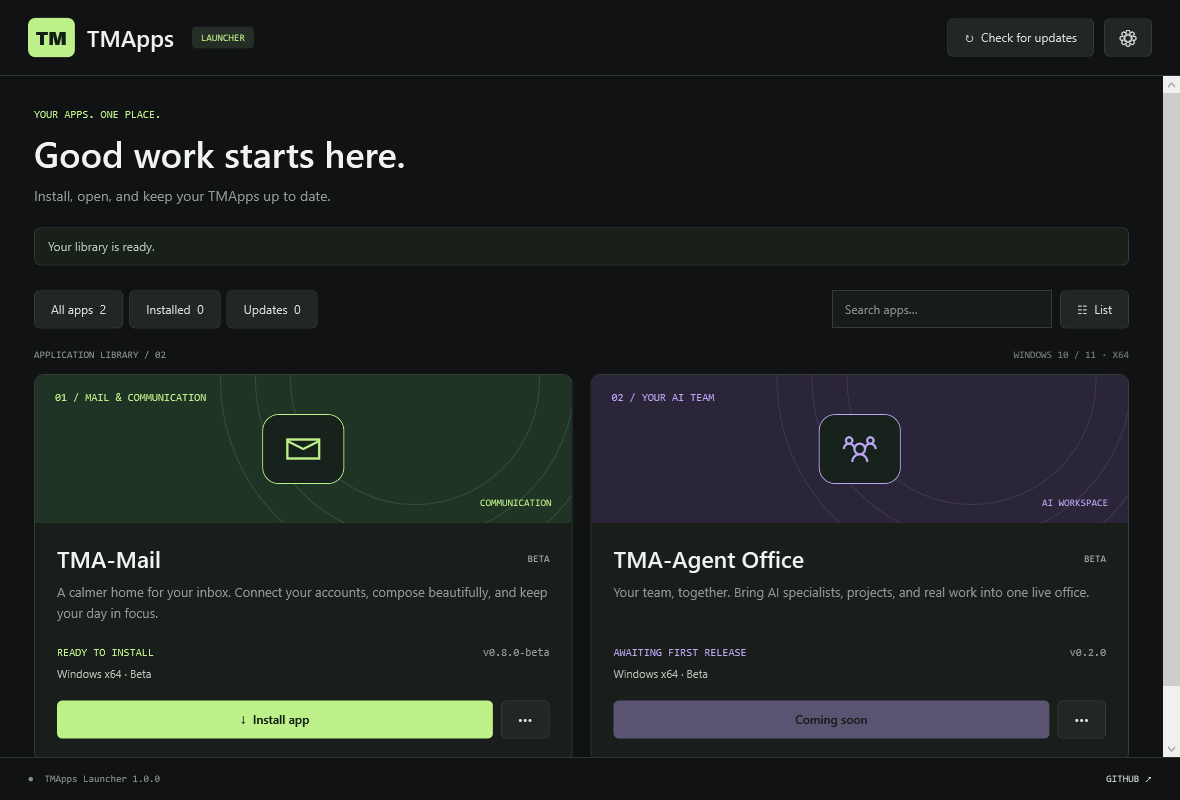
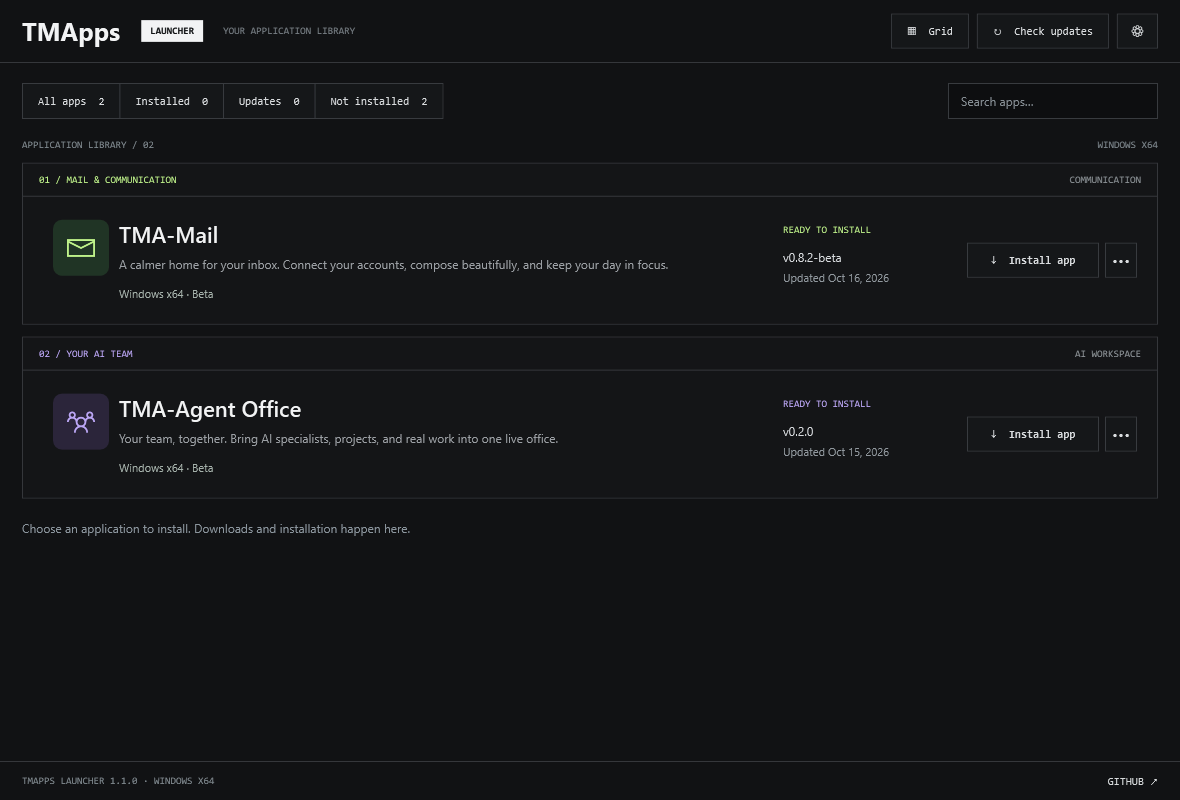
Ship standalone launcher EXE with compact app list and update dates

diff --git a/src/MainWindow.xaml b/src/MainWindow.xaml
@@ -1,70 +1,58 @@
 <Window xmlns="http://schemas.microsoft.com/winfx/2006/xaml/presentation" xmlns:x="http://schemas.microsoft.com/winfx/2006/xaml"
- Title="TMApps Launcher" Width="1180" Height="840" MinWidth="880" MinHeight="700" Background="#101213" Foreground="#F1F3F1" FontFamily="Segoe UI" WindowStartupLocation="CenterScreen">
+ Title="TMApps Launcher" Width="1120" Height="720" MinWidth="900" MinHeight="580" Background="#111214" Foreground="#F2F3F4" FontFamily="Segoe UI" WindowStartupLocation="CenterScreen">
  <Window.Resources>
-  <SolidColorBrush x:Key="Muted" Color="#919A96"/>
   <Style TargetType="Button">
-   <Setter Property="Background" Value="#202725"/><Setter Property="Foreground" Value="#D9DFDB"/><Setter Property="BorderBrush" Value="#343D38"/><Setter Property="BorderThickness" Value="1"/><Setter Property="Padding" Value="16,10"/><Setter Property="FontSize" Value="12"/><Setter Property="Cursor" Value="Hand"/>
-   <Setter Property="Template"><Setter.Value><ControlTemplate TargetType="Button"><Border x:Name="Chrome" Background="{TemplateBinding Background}" BorderBrush="{TemplateBinding BorderBrush}" BorderThickness="{TemplateBinding BorderThickness}" CornerRadius="5" Padding="{TemplateBinding Padding}"><ContentPresenter HorizontalAlignment="Center" VerticalAlignment="Center"/></Border><ControlTemplate.Triggers><Trigger Property="IsMouseOver" Value="True"><Setter TargetName="Chrome" Property="Opacity" Value="0.78"/></Trigger><Trigger Property="IsEnabled" Value="False"><Setter TargetName="Chrome" Property="Opacity" Value="0.4"/></Trigger><Trigger Property="IsKeyboardFocused" Value="True"><Setter TargetName="Chrome" Property="BorderBrush" Value="#BEF18A"/></Trigger></ControlTemplate.Triggers></ControlTemplate></Setter.Value></Setter>
+   <Setter Property="Background" Value="#151719"/><Setter Property="Foreground" Value="#D9DCDE"/><Setter Property="BorderBrush" Value="#383B3F"/><Setter Property="BorderThickness" Value="1"/><Setter Property="Padding" Value="15,10"/><Setter Property="FontSize" Value="11"/><Setter Property="FontFamily" Value="Consolas"/><Setter Property="Cursor" Value="Hand"/>
+   <Setter Property="Template"><Setter.Value><ControlTemplate TargetType="Button"><Border x:Name="Chrome" Background="{TemplateBinding Background}" BorderBrush="{TemplateBinding BorderBrush}" BorderThickness="{TemplateBinding BorderThickness}" Padding="{TemplateBinding Padding}"><ContentPresenter HorizontalAlignment="Center" VerticalAlignment="Center"/></Border><ControlTemplate.Triggers><Trigger Property="IsMouseOver" Value="True"><Setter TargetName="Chrome" Property="BorderBrush" Value="#B9D8CE"/><Setter TargetName="Chrome" Property="Opacity" Value="0.8"/></Trigger><Trigger Property="IsEnabled" Value="False"><Setter TargetName="Chrome" Property="Opacity" Value="0.4"/></Trigger><Trigger Property="IsKeyboardFocused" Value="True"><Setter TargetName="Chrome" Property="BorderBrush" Value="#BEF18A"/></Trigger></ControlTemplate.Triggers></ControlTemplate></Setter.Value></Setter>
   </Style>
-  <Style TargetType="TextBox"><Setter Property="Background" Value="#171B19"/><Setter Property="Foreground" Value="#E7EDE8"/><Setter Property="BorderBrush" Value="#343D38"/><Setter Property="Padding" Value="12,10"/><Setter Property="CaretBrush" Value="#BEF18A"/></Style>
-  <Style TargetType="ComboBox"><Setter Property="Padding" Value="9,8"/><Setter Property="MinWidth" Value="145"/></Style>
-  <DataTemplate x:Key="AppCard">
-   <Border Margin="0,0,18,18" Background="#191E1B" BorderBrush="#343C36" BorderThickness="1" CornerRadius="9">
+  <Style TargetType="TextBox"><Setter Property="Background" Value="#0D0E10"/><Setter Property="Foreground" Value="#E7E9EB"/><Setter Property="BorderBrush" Value="#383B3F"/><Setter Property="Padding" Value="12,9"/><Setter Property="CaretBrush" Value="#BEF18A"/></Style>
+  <DataTemplate x:Key="AppList">
+   <Border BorderBrush="#35373B" BorderThickness="1" Margin="0,0,0,12" Background="#141517">
     <Grid>
-     <Grid.RowDefinitions><RowDefinition Height="148"/><RowDefinition Height="*"/></Grid.RowDefinitions>
-     <Border Background="{Binding PreviewBackground}" CornerRadius="8,8,0,0" ClipToBounds="True">
-      <Grid>
-       <Canvas Opacity="0.14" IsHitTestVisible="False"><Ellipse Width="250" Height="250" Stroke="{Binding Accent}" StrokeThickness="1" Canvas.Left="255" Canvas.Top="-120"/><Ellipse Width="320" Height="320" Stroke="{Binding Accent}" StrokeThickness="1" Canvas.Left="220" Canvas.Top="-155"/><Ellipse Width="390" Height="390" Stroke="{Binding Accent}" StrokeThickness="1" Canvas.Left="185" Canvas.Top="-190"/></Canvas>
-       <TextBlock Text="{Binding Number}" Foreground="{Binding Accent}" FontFamily="Consolas" FontSize="11" HorizontalAlignment="Left" VerticalAlignment="Top" Margin="20,16"/>
-       <Border HorizontalAlignment="Center" VerticalAlignment="Center" Width="82" Height="70" CornerRadius="16" BorderThickness="1" BorderBrush="{Binding Accent}" Background="#18221C"><TextBlock Text="{Binding Glyph}" FontFamily="Segoe MDL2 Assets" FontSize="34" Foreground="{Binding Accent}" HorizontalAlignment="Center" VerticalAlignment="Center"/></Border>
-       <TextBlock Text="{Binding Category}" Foreground="{Binding Accent}" FontFamily="Consolas" FontSize="10" HorizontalAlignment="Right" VerticalAlignment="Bottom" Margin="20,15"/>
-      </Grid>
-     </Border>
-     <Grid Grid.Row="1" Margin="22,20,22,22">
-      <Grid.RowDefinitions><RowDefinition Height="Auto"/><RowDefinition Height="Auto"/><RowDefinition Height="Auto"/><RowDefinition Height="Auto"/><RowDefinition Height="Auto"/></Grid.RowDefinitions>
-      <DockPanel><TextBlock Text="BETA" DockPanel.Dock="Right" FontFamily="Consolas" Foreground="#AAB2AC" FontSize="10" VerticalAlignment="Center"/><TextBlock Text="{Binding Name}" FontSize="23" FontWeight="SemiBold"/></DockPanel>
-      <TextBlock Grid.Row="1" Text="{Binding Description}" Foreground="{StaticResource Muted}" TextWrapping="Wrap" FontSize="13" LineHeight="21" Margin="0,9,0,0" MinHeight="46"/>
-      <DockPanel Grid.Row="2" Margin="0,17,0,0"><TextBlock Text="{Binding VersionLabel}" DockPanel.Dock="Right" Foreground="#919A96" FontFamily="Consolas" FontSize="11"/><TextBlock Text="{Binding Status}" Foreground="{Binding Accent}" FontSize="11" FontFamily="Consolas" TextWrapping="Wrap"/></DockPanel>
-      <TextBlock Grid.Row="3" Text="{Binding Detail}" ToolTip="{Binding Detail}" TextTrimming="CharacterEllipsis" Foreground="#B8C1BA" FontSize="11" Margin="0,8,0,0" MinHeight="16"/>
-      <Grid Grid.Row="4" Margin="0,18,0,0"><Grid.ColumnDefinitions><ColumnDefinition/><ColumnDefinition Width="Auto"/><ColumnDefinition Width="Auto"/></Grid.ColumnDefinitions>
-       <Button Content="{Binding Action}" IsEnabled="{Binding CanAct}" Tag="{Binding Id}" Click="AppAction" Background="{Binding Accent}" Foreground="#101A12" BorderThickness="0" FontWeight="SemiBold" Padding="16,11"/>
-       <Button Grid.Column="1" Content="Cancel" Tag="{Binding Id}" Click="CancelInstall" Visibility="{Binding CancelVisibility}" Margin="8,0,0,0"/>
-       <Button Grid.Column="2" Content="•••" Tag="{Binding Id}" Click="AppMenu" ToolTip="Application options" Margin="8,0,0,0" AutomationProperties.Name="Application options"/>
-      </Grid>
+     <Grid.RowDefinitions><RowDefinition Height="33"/><RowDefinition Height="Auto"/></Grid.RowDefinitions>
+     <Border BorderBrush="#35373B" BorderThickness="0,0,0,1" Padding="16,0"><DockPanel><TextBlock Text="{Binding Number}" Foreground="{Binding Accent}" FontFamily="Consolas" FontSize="10" VerticalAlignment="Center"/><TextBlock Text="{Binding Category}" Foreground="#8C9296" FontFamily="Consolas" FontSize="10" VerticalAlignment="Center" HorizontalAlignment="Right"/></DockPanel></Border>
+     <Grid Grid.Row="1" Margin="20,23">
+      <Grid.ColumnDefinitions><ColumnDefinition Width="76"/><ColumnDefinition Width="*"/><ColumnDefinition Width="184"/><ColumnDefinition Width="170"/></Grid.ColumnDefinitions>
+      <Border Width="56" Height="56" Background="{Binding PreviewBackground}" CornerRadius="9" VerticalAlignment="Top"><TextBlock Text="{Binding Glyph}" FontFamily="Segoe MDL2 Assets" FontSize="28" Foreground="{Binding Accent}" HorizontalAlignment="Center" VerticalAlignment="Center"/></Border>
+      <StackPanel Grid.Column="1" Margin="0,0,25,0"><TextBlock Text="{Binding Name}" FontSize="22" FontWeight="SemiBold"/><TextBlock Text="{Binding Description}" Foreground="#9B9FA4" FontSize="12" TextWrapping="Wrap" LineHeight="19" Margin="0,7,0,0"/><TextBlock Text="{Binding Detail}" Foreground="#A6B2AC" FontSize="11" TextWrapping="Wrap" Margin="0,11,0,0"/></StackPanel>
+      <StackPanel Grid.Column="2" Margin="0,4,12,0"><TextBlock Text="{Binding Status}" Foreground="{Binding Accent}" FontSize="10" FontFamily="Consolas" TextWrapping="Wrap"/><TextBlock Text="{Binding VersionLabel}" Foreground="#D7DADD" FontSize="12" Margin="0,14,0,0"/><TextBlock Text="{Binding UpdatedLabel, StringFormat=Updated {0}}" Foreground="#90979D" FontSize="11" Margin="0,5,0,0"/></StackPanel>
+      <StackPanel Grid.Column="3" VerticalAlignment="Center"><Grid><Grid.ColumnDefinitions><ColumnDefinition/><ColumnDefinition Width="38"/></Grid.ColumnDefinitions><Button Content="{Binding Action}" IsEnabled="{Binding CanAct}" Tag="{Binding Id}" Click="AppAction" FontWeight="Bold"/><Button Grid.Column="1" Content="•••" Tag="{Binding Id}" Click="AppMenu" ToolTip="Application options" Margin="6,0,0,0" Padding="0,10" AutomationProperties.Name="Application options"/></Grid><Button Content="Cancel" Tag="{Binding Id}" Click="CancelInstall" Visibility="{Binding CancelVisibility}" Margin="0,6,0,0"/></StackPanel>
      </Grid>
     </Grid>
    </Border>
   </DataTemplate>
+  <DataTemplate x:Key="AppCard">
+   <Border Margin="0,0,12,12" BorderBrush="#35373B" BorderThickness="1" Background="#141517">
+    <StackPanel>
+     <Border BorderBrush="#35373B" BorderThickness="0,0,0,1" Padding="18,10"><TextBlock Text="{Binding Number}" Foreground="{Binding Accent}" FontFamily="Consolas" FontSize="10"/></Border>
+     <StackPanel Margin="20,22">
+      <DockPanel><Border Width="54" Height="54" Background="{Binding PreviewBackground}" CornerRadius="8" Margin="0,0,14,0"><TextBlock Text="{Binding Glyph}" Foreground="{Binding Accent}" FontFamily="Segoe MDL2 Assets" FontSize="27" HorizontalAlignment="Center" VerticalAlignment="Center"/></Border><StackPanel VerticalAlignment="Center"><TextBlock Text="{Binding Name}" FontSize="23" FontWeight="SemiBold"/><TextBlock Text="{Binding Category}" Foreground="#90979D" FontSize="11" Margin="0,4,0,0"/></StackPanel></DockPanel>
+      <TextBlock Text="{Binding Description}" TextWrapping="Wrap" Foreground="#9B9FA4" FontSize="12" LineHeight="20" Margin="0,17,0,0" MinHeight="44"/>
+      <TextBlock Text="{Binding Status}" Foreground="{Binding Accent}" FontFamily="Consolas" FontSize="10" Margin="0,18,0,0"/>
+      <StackPanel Orientation="Horizontal" Margin="0,12,0,0"><TextBlock Text="{Binding VersionLabel}" FontSize="12" Foreground="#A8ADB2"/><TextBlock Text=" · " Foreground="#A8ADB2"/><TextBlock Text="{Binding UpdatedLabel}" FontSize="12" Foreground="#A8ADB2"/></StackPanel>
+      <TextBlock Text="{Binding Detail}" TextTrimming="CharacterEllipsis" ToolTip="{Binding Detail}" Foreground="#9BA8A1" FontSize="11" Margin="0,10,0,0" MinHeight="16"/>
+      <Grid Margin="0,20,0,0"><Grid.ColumnDefinitions><ColumnDefinition/><ColumnDefinition Width="Auto"/><ColumnDefinition Width="38"/></Grid.ColumnDefinitions><Button Content="{Binding Action}" IsEnabled="{Binding CanAct}" Tag="{Binding Id}" Click="AppAction" FontWeight="Bold"/><Button Grid.Column="1" Content="Cancel" Tag="{Binding Id}" Click="CancelInstall" Visibility="{Binding CancelVisibility}" Margin="6,0,0,0"/><Button Grid.Column="2" Content="•••" Tag="{Binding Id}" Click="AppMenu" Margin="6,0,0,0" Padding="0,10" ToolTip="Application options"/></Grid>
+     </StackPanel>
+    </StackPanel>
+   </Border>
+  </DataTemplate>
  </Window.Resources>
- <Grid Background="#101213">
-  <Grid.RowDefinitions><RowDefinition Height="76"/><RowDefinition Height="*"/><RowDefinition Height="43"/></Grid.RowDefinitions>
-  <Border BorderBrush="#2D3530" BorderThickness="0,0,0,1" Padding="28,0">
-   <DockPanel LastChildFill="False">
-    <StackPanel Orientation="Horizontal" DockPanel.Dock="Left" VerticalAlignment="Center"><Border Background="#BEF18A" CornerRadius="7" Padding="8,7"><TextBlock Text="TM" Foreground="#142015" FontWeight="ExtraBold" FontSize="19"/></Border><TextBlock Text="TMApps" FontSize="23" FontWeight="SemiBold" Margin="12,0,0,0" VerticalAlignment="Center"/><Border Background="#252E26" CornerRadius="4" Padding="9,5" Margin="18,0,0,0" VerticalAlignment="Center"><TextBlock Text="LAUNCHER" Foreground="#BEF18A" FontSize="10" FontFamily="Consolas"/></Border></StackPanel>
-    <StackPanel Orientation="Horizontal" DockPanel.Dock="Right" VerticalAlignment="Center"><Button x:Name="RefreshButton" Content="↻  Check for updates" Click="RefreshClick" Margin="0,0,10,0"/><Button Content="⚙" Click="SettingsClick" ToolTip="Launcher settings" AutomationProperties.Name="Launcher settings" FontSize="16" Padding="12,7"/></StackPanel>
-   </DockPanel>
-  </Border>
-  <ScrollViewer Grid.Row="1" VerticalScrollBarVisibility="Auto" HorizontalScrollBarVisibility="Disabled">
-   <StackPanel Margin="34,32,16,20">
-    <TextBlock Text="YOUR APPS. ONE PLACE." Foreground="#BEF18A" FontFamily="Consolas" FontSize="11"/>
-    <TextBlock Text="Good work starts here." FontSize="36" FontWeight="SemiBold" Margin="0,8,0,0"/>
-    <TextBlock Text="Install, open, and keep your TMApps up to date." Foreground="#919A96" FontSize="14" Margin="0,9,0,0"/>
-    <Border Background="#182019" BorderBrush="#303F30" BorderThickness="1" CornerRadius="6" Padding="13,10" Margin="0,23,18,0"><TextBlock x:Name="Notice" Text="Your library is ready." Foreground="#B5C8B4" TextWrapping="Wrap" FontSize="12"/></Border>
-    <Grid Margin="0,25,18,20">
-     <Grid.ColumnDefinitions><ColumnDefinition Width="Auto"/><ColumnDefinition/><ColumnDefinition Width="220"/><ColumnDefinition Width="Auto"/></Grid.ColumnDefinitions>
-     <StackPanel Orientation="Horizontal"><Button x:Name="AllFilter" Content="All apps  2" Tag="all" Click="FilterClick"/><Button x:Name="InstalledFilter" Content="Installed  0" Tag="installed" Click="FilterClick" Margin="6,0,0,0"/><Button x:Name="UpdatesFilter" Content="Updates  0" Tag="updates" Click="FilterClick" Margin="6,0,0,0"/></StackPanel>
-     <Grid Grid.Column="2">
-      <TextBox x:Name="Search" TextChanged="SearchChanged" ToolTip="Search applications" AutomationProperties.Name="Search applications"/>
-      <TextBlock Text="Search apps…" Foreground="#879389" Margin="13,0" VerticalAlignment="Center" IsHitTestVisible="False"><TextBlock.Style><Style TargetType="TextBlock"><Setter Property="Visibility" Value="Collapsed"/><Style.Triggers><DataTrigger Binding="{Binding Text, ElementName=Search}" Value=""><Setter Property="Visibility" Value="Visible"/></DataTrigger></Style.Triggers></Style></TextBlock.Style></TextBlock>
-     </Grid>
-     <Button Grid.Column="3" x:Name="ViewButton" Content="☷  List" Click="ViewClick" Margin="8,0,0,0" ToolTip="Toggle grid and list"/>
-    </Grid>
-    <DockPanel Margin="0,0,18,14"><TextBlock x:Name="LibraryLabel" Text="APPLICATION LIBRARY / 02" FontFamily="Consolas" FontSize="10" Foreground="#879389"/><TextBlock Text="WINDOWS 10 / 11 · X64" Foreground="#737E76" FontFamily="Consolas" FontSize="10" HorizontalAlignment="Right"/></DockPanel>
-    <ItemsControl x:Name="Cards" ItemTemplate="{StaticResource AppCard}"><ItemsControl.ItemsPanel><ItemsPanelTemplate><UniformGrid Columns="2"/></ItemsPanelTemplate></ItemsControl.ItemsPanel></ItemsControl>
-    <TextBlock x:Name="Empty" Text="No apps match this view. Try All apps or a different search." Visibility="Collapsed" Foreground="#B5C8B4" Margin="0,22"/>
-    <TextBlock Text="A growing collection. More tools, same home." FontSize="12" Foreground="#6E7B71" Margin="0,3,0,0"/>
-   </StackPanel>
-  </ScrollViewer>
-  <Border Grid.Row="2" BorderBrush="#2D3530" BorderThickness="0,1,0,0" Padding="28,0"><DockPanel><TextBlock x:Name="Footer" Text="●  TMApps Launcher 1.0.0" Foreground="#879389" FontFamily="Consolas" FontSize="10" VerticalAlignment="Center"/><Button Content="GITHUB ↗" Click="GitHubClick" DockPanel.Dock="Right" HorizontalAlignment="Right" Background="Transparent" BorderThickness="0" FontFamily="Consolas" FontSize="10" Padding="0,8"/></DockPanel></Border>
+ <Grid Background="#111214">
+  <Grid.RowDefinitions><RowDefinition Height="63"/><RowDefinition Height="Auto"/><RowDefinition Height="*"/><RowDefinition Height="39"/></Grid.RowDefinitions>
+  <Border BorderBrush="#35373B" BorderThickness="0,0,0,1" Padding="22,0"><DockPanel LastChildFill="False">
+   <StackPanel DockPanel.Dock="Left" Orientation="Horizontal" VerticalAlignment="Center"><TextBlock Text="TMApps" FontSize="25" FontWeight="Bold"/><Border Background="#F2F3F4" Margin="21,0,0,0" VerticalAlignment="Center" Padding="9,5"><TextBlock Text="LAUNCHER" Foreground="#101214" FontFamily="Consolas" FontWeight="Bold" FontSize="10"/></Border><TextBlock Text="YOUR APPLICATION LIBRARY" Foreground="#777E84" FontFamily="Consolas" FontSize="10" VerticalAlignment="Center" Margin="20,0,0,0"/></StackPanel>
+   <StackPanel DockPanel.Dock="Right" Orientation="Horizontal" VerticalAlignment="Center"><Button x:Name="ViewButton" Content="▦  Grid" Click="ViewClick" Margin="0,0,8,0"/><Button x:Name="RefreshButton" Content="↻  Check updates" Click="RefreshClick" Margin="0,0,8,0"/><Button Content="⚙" Click="SettingsClick" ToolTip="Launcher settings" AutomationProperties.Name="Launcher settings" Padding="12,9"/></StackPanel>
+  </DockPanel></Border>
+  <Grid Grid.Row="1" Margin="22,20,22,20"><Grid.ColumnDefinitions><ColumnDefinition Width="Auto"/><ColumnDefinition/><ColumnDefinition Width="210"/></Grid.ColumnDefinitions>
+   <StackPanel Orientation="Horizontal"><Button x:Name="AllFilter" Content="All apps  2" Tag="all" Click="FilterClick"/><Button x:Name="InstalledFilter" Content="Installed  0" Tag="installed" Click="FilterClick" Margin="-1,0,0,0"/><Button x:Name="UpdatesFilter" Content="Updates  0" Tag="updates" Click="FilterClick" Margin="-1,0,0,0"/><Button x:Name="NotInstalledFilter" Content="Not installed  2" Tag="notinstalled" Click="FilterClick" Margin="-1,0,0,0"/></StackPanel>
+   <Grid Grid.Column="2"><TextBox x:Name="Search" TextChanged="SearchChanged" ToolTip="Search applications" AutomationProperties.Name="Search applications"/><TextBlock Text="Search apps…" Foreground="#858D93" VerticalAlignment="Center" Margin="13,0" IsHitTestVisible="False"><TextBlock.Style><Style TargetType="TextBlock"><Setter Property="Visibility" Value="Collapsed"/><Style.Triggers><DataTrigger Binding="{Binding Text, ElementName=Search}" Value=""><Setter Property="Visibility" Value="Visible"/></DataTrigger></Style.Triggers></Style></TextBlock.Style></TextBlock></Grid>
+  </Grid>
+  <ScrollViewer Grid.Row="2" VerticalScrollBarVisibility="Auto" HorizontalScrollBarVisibility="Disabled"><StackPanel Margin="22,0,22,20">
+   <DockPanel Margin="0,0,0,12"><TextBlock x:Name="LibraryLabel" Text="APPLICATION LIBRARY / 02" Foreground="#7D868C" FontFamily="Consolas" FontSize="10"/><TextBlock Text="WINDOWS X64" Foreground="#7D868C" FontFamily="Consolas" FontSize="10" HorizontalAlignment="Right"/></DockPanel>
+   <ItemsControl x:Name="Cards" ItemTemplate="{StaticResource AppList}"><ItemsControl.ItemsPanel><ItemsPanelTemplate><UniformGrid Columns="1"/></ItemsPanelTemplate></ItemsControl.ItemsPanel></ItemsControl>
+   <TextBlock x:Name="Empty" Text="No applications match this view." Foreground="#A0A8AF" Visibility="Collapsed" Margin="0,25"/>
+   <TextBlock x:Name="Notice" Text="Choose an application to install. Downloads and installation happen here." Foreground="#8B959D" TextWrapping="Wrap" FontSize="12" Margin="0,10,0,0"/>
+  </StackPanel></ScrollViewer>
+  <Border Grid.Row="3" BorderBrush="#35373B" BorderThickness="0,1,0,0" Padding="22,0"><DockPanel><TextBlock x:Name="Footer" Text="TMAPPS LAUNCHER 1.1.0 · WINDOWS X64" Foreground="#7E878D" FontFamily="Consolas" FontSize="10" VerticalAlignment="Center"/><Button Content="GITHUB ↗" Click="GitHubClick" HorizontalAlignment="Right" Background="Transparent" BorderThickness="0" Padding="0,7"/></DockPanel></Border>
  </Grid>
 </Window>

diff --git a/src/App.cs b/src/App.cs
@@ -10,6 +10,10 @@ using System.Windows.Controls;
 using System.Windows.Markup;
 using System.Windows.Media;
 
+[assembly: System.Reflection.AssemblyVersion("1.1.0.0")]
+[assembly: System.Reflection.AssemblyFileVersion("1.1.0.0")]
+[assembly: System.Reflection.AssemblyProduct("TMApps Launcher")]
+
 namespace TMApps {
     public class AppView : INotifyPropertyChanged {
         public AppInfo Info;
@@ -19,6 +23,7 @@ namespace TMApps {
         public string PreviewBackground { get { return Id == "tma-mail" ? "#203425" : "#2B253A"; } }
         public string Glyph { get { return Id == "tma-mail" ? "\uE715" : "\uE902"; } }
         public string Number { get { return Id == "tma-mail" ? "01 / MAIL & COMMUNICATION" : "02 / YOUR AI TEAM"; } }
+        public string UpdatedLabel { get { DateTimeOffset date; return DateTimeOffset.TryParse(Info.updatedAt, System.Globalization.CultureInfo.InvariantCulture, System.Globalization.DateTimeStyles.AssumeUniversal, out date) ? date.ToString("MMM d, yyyy", System.Globalization.CultureInfo.InvariantCulture) : "Date not published"; } }
         public string VersionLabel { get; set; } public string Status { get; set; } public string Detail { get; set; }
         public string Action { get; set; } public bool CanAct { get; set; } public bool Busy;
         public CancellationTokenSource Cancellation;
@@ -28,10 +33,19 @@ namespace TMApps {
     }
     public class LauncherApplication : Application {
         LauncherService service; Window window; List<AppView> apps; Preferences preferences;
-        string filter = "all"; bool listView; bool refreshing; readonly CancellationTokenSource lifetime = new CancellationTokenSource();
-        string BasePath { get { return AppDomain.CurrentDomain.BaseDirectory; } }
+        string filter = "all"; bool listView = true; bool refreshing; readonly CancellationTokenSource lifetime = new CancellationTokenSource();
         T Find<T>(string name) where T : FrameworkElement { return (T)window.FindName(name); }
         [STAThread] public static void Main(string[] args) {
+            if (args.Length == 2 && args[0] == "--verify-package") {
+                try {
+                    var app = new Application();
+                    var check = (Window)XamlReader.Parse(CleanXaml(Bundled.Read("MainWindow.xaml")));
+                    var catalog = LauncherService.ParseCatalog(Bundled.Read("catalog.json"));
+                    if (check.FindName("Cards") == null || catalog.apps.Count != 2) throw new InvalidDataException("Invalid embedded library.");
+                    File.WriteAllText(args[1], "OK: standalone UI and catalog loaded; " + catalog.apps.Count + " applications"); check.Close(); app.Shutdown();
+                } catch (Exception ex) { File.WriteAllText(args[1], "FAIL: " + ex.Message); Environment.ExitCode = 1; }
+                return;
+            }
             bool created;
             using (var mutex = new Mutex(true, "Local\\TMApps-Launcher", out created)) {
                 if (!created) { MessageBox.Show("TMApps Launcher is already open.", "TMApps"); return; }
@@ -44,13 +58,12 @@ namespace TMApps {
             service = new LauncherService(Path.Combine(Environment.GetFolderPath(Environment.SpecialFolder.LocalApplicationData), "TMApps", "Launcher"));
             preferences = new Preferences();
             try { preferences = LauncherService.Json.Deserialize<Preferences>(File.ReadAllText(Path.Combine(service.Root, "settings.json"))) ?? preferences; } catch { }
-            // XAML is packaged locally; event hooks are attached here, never from downloaded content.
-            string xaml = File.ReadAllText(Path.Combine(BasePath, "MainWindow.xaml"));
-            xaml = System.Text.RegularExpressions.Regex.Replace(xaml, " (Click|TextChanged)=\"[^\"]+\"", "");
+            // Both the UI and initial catalog are embedded in the executable.
+            string xaml = CleanXaml(Bundled.Read("MainWindow.xaml"));
             window = (Window)XamlReader.Parse(xaml); MainWindow = window;
             window.AddHandler(Button.ClickEvent, new RoutedEventHandler(HandleButton));
             Find<TextBox>("Search").TextChanged += (s, ev) => Render();
-            apps = service.LoadCatalog(Path.Combine(BasePath, "catalog.json")).apps.Select(a => new AppView { Info = a }).ToList();
+            apps = service.LoadCatalog().apps.Select(a => new AppView { Info = a }).ToList();
             Render();
             Notice("Install an app to get started. Public downloads do not require a GitHub account.");
             window.Closing += (s, ev) => {
@@ -60,6 +73,7 @@ namespace TMApps {
             window.Show();
             if (preferences.checkOnStartup) RefreshCatalog();
         }
+        static string CleanXaml(string xaml) { return System.Text.RegularExpressions.Regex.Replace(xaml, " (Click|TextChanged)=\"[^\"]+\"", ""); }
         void Notice(string value) { Find<TextBlock>("Notice").Text = value; }
         void Render() {
             if (apps == null) return;
@@ -69,35 +83,36 @@ namespace TMApps {
                     bool update = installed != null && LauncherService.IsNewer(app.Info.version, installed.version);
                     app.Status = installed == null ? (app.Info.Available ? "READY TO INSTALL" : "AWAITING FIRST RELEASE") : update ? "UPDATE AVAILABLE" : "INSTALLED · UP TO DATE";
                     app.Action = installed == null ? (app.Info.Available ? "↓  Install app" : "Coming soon") : update ? "↓  Update app" : "↗  Open app";
-                    app.CanAct = app.Info.Available || installed != null;
+                    app.CanAct = !refreshing && (app.Info.Available || installed != null);
                     app.VersionLabel = "v" + app.Info.version;
                     if (String.IsNullOrEmpty(app.Detail)) app.Detail = installed != null ? "Installed v" + installed.version : app.Info.Available ? "Windows x64 · Beta" : "The publisher is preparing a Windows build.";
                 }
                 app.Changed();
             }
             string query = Find<TextBox>("Search").Text.Trim();
-            var visible = apps.Where(a => (a.Name + " " + a.Category + " " + a.Description).IndexOf(query, StringComparison.OrdinalIgnoreCase) >= 0).Where(a => filter == "all" || (service.GetInstalled(a.Info) != null && (filter == "installed" || LauncherService.IsNewer(a.Info.version, service.GetInstalled(a.Info).version)))).ToList();
+            var visible = apps.Where(a => (a.Name + " " + a.Category + " " + a.Description).IndexOf(query, StringComparison.OrdinalIgnoreCase) >= 0).Where(a => { var installed = service.GetInstalled(a.Info); return filter == "all" || (filter == "notinstalled" ? installed == null : installed != null && (filter == "installed" || LauncherService.IsNewer(a.Info.version, installed.version))); }).ToList();
             Find<ItemsControl>("Cards").ItemsSource = visible;
             Find<TextBlock>("Empty").Visibility = visible.Count == 0 ? Visibility.Visible : Visibility.Collapsed;
             Find<TextBlock>("LibraryLabel").Text = "APPLICATION LIBRARY / " + visible.Count.ToString("00");
             Find<Button>("InstalledFilter").Content = "Installed  " + apps.Count(a => service.GetInstalled(a.Info) != null);
             Find<Button>("UpdatesFilter").Content = "Updates  " + apps.Count(a => { var i = service.GetInstalled(a.Info); return i != null && LauncherService.IsNewer(a.Info.version, i.version); });
-            foreach (string key in new[] { "all", "installed", "updates" }) {
-                var button = Find<Button>(key == "all" ? "AllFilter" : key == "installed" ? "InstalledFilter" : "UpdatesFilter");
+            Find<Button>("NotInstalledFilter").Content = "Not installed  " + apps.Count(a => service.GetInstalled(a.Info) == null);
+            foreach (string key in new[] { "all", "installed", "updates", "notinstalled" }) {
+                var button = Find<Button>(key == "all" ? "AllFilter" : key == "installed" ? "InstalledFilter" : key == "updates" ? "UpdatesFilter" : "NotInstalledFilter");
                 button.Background = (Brush)new BrushConverter().ConvertFromString(filter == key ? "#BEF18A" : "#202725");
                 button.Foreground = (Brush)new BrushConverter().ConvertFromString(filter == key ? "#142015" : "#D9DFDB");
             }
         }
         async void RefreshCatalog() {
             if (refreshing || apps.Any(a => a.Busy)) return;
-            refreshing = true; Find<Button>("RefreshButton").IsEnabled = false; Notice("Checking for new releases…");
+            refreshing = true; Render(); Find<Button>("RefreshButton").IsEnabled = false; Notice("Checking for new releases…");
             try {
                 var catalog = await service.Refresh(lifetime.Token);
                 foreach (var a in apps) { a.Info = catalog.apps.First(i => i.id == a.Id); a.Detail = null; }
                 Render(); Notice("You're up to date with the latest published catalog. Last checked " + DateTime.Now.ToString("HH:mm") + ".");
             } catch (OperationCanceledException) { if (!lifetime.IsCancellationRequested) Notice("The release check timed out. Your saved library is still available. Try again shortly."); }
             catch (Exception) { Notice("Could not reach the release catalog. Check your connection and try again. Your saved library is still available."); }
-            finally { refreshing = false; Find<Button>("RefreshButton").IsEnabled = true; }
+            finally { refreshing = false; Render(); Find<Button>("RefreshButton").IsEnabled = !apps.Any(a => a.Busy); }
         }
         async void Install(AppView app) {
             app.Busy = true; app.CanAct = false; app.Action = "Please wait…"; app.Status = "INSTALLING"; app.Cancellation = CancellationTokenSource.CreateLinkedTokenSource(lifetime.Token);
@@ -116,6 +131,7 @@ namespace TMApps {
             if (name.EndsWith("Filter")) { filter = tag; Render(); return; }
             if (name == "ViewButton") {
                 listView = !listView; b.Content = listView ? "▦  Grid" : "☷  List";
+                Find<ItemsControl>("Cards").ItemTemplate = (DataTemplate)window.Resources[listView ? "AppList" : "AppCard"];
                 var factory = new FrameworkElementFactory(typeof(System.Windows.Controls.Primitives.UniformGrid)); factory.SetValue(System.Windows.Controls.Primitives.UniformGrid.ColumnsProperty, listView ? 1 : 2);
                 Find<ItemsControl>("Cards").ItemsPanel = new ItemsPanelTemplate(factory); return;
             }

diff --git a/tests/Tests.cs b/tests/Tests.cs
@@ -36,7 +36,7 @@ namespace TMApps {
             string root = Path.Combine(args[0], "build", "test-" + Guid.NewGuid().ToString("N")); Directory.CreateDirectory(root);
             try {
                 var catalog = LauncherService.ParseCatalog(File.ReadAllText(Path.Combine(args[0], "catalog.json")));
-                Check(catalog.apps.Count == 2 && catalog.apps[0].Available && !catalog.apps[1].Available, "Bundled catalog availability");
+                Check(catalog.apps.Count == 2 && catalog.apps.All(a => a.Available), "Both real app packages bundled in catalog");
                 Check(LauncherService.TrustedUrl(catalog.apps[0].downloadUrl), "Pinned Mail artifact URL");
                 Check(!LauncherService.TrustedUrl("https://github.com/attacker/TMApps/releases/download/a/file.zip"), "Reject other repositories");
                 Check(!LauncherService.TrustedUrl("https://github.com.evil.test/DaddyTylerXO/TMApps/releases/download/file"), "Reject lookalike host");
@@ -46,7 +46,7 @@ namespace TMApps {
                 string original = File.ReadAllText(Path.Combine(args[0], "catalog.json"));
                 Reject(() => LauncherService.ParseCatalog(original.Replace("Agent Office.exe", "..\\\\evil.exe")), "Reject arbitrary executable");
                 Reject(() => LauncherService.ParseCatalog(original.Replace("tma-agent-office", "tma-mail")), "Reject duplicate app");
[1 lines of base64/hex data omitted]
+                Reject(() => LauncherService.ParseCatalog(original.Replace(catalog.apps[0].sha256, "bad")), "Require checksum");
                 Check(LauncherService.IsNewer("0.10.0", "0.9.0"), "Numeric version comparison");
                 Check(LauncherService.IsNewer("1.0.0", "1.0.0-beta"), "Stable version follows beta");
                 Check(!LauncherService.IsNewer("1.0.0-beta", "1.0.0"), "Never downgrade stable to beta");
@@ -78,6 +78,7 @@ namespace TMApps {
                 string package = Path.Combine(root, "valid.zip"); Zip(package, "TMA-Mail.exe", "first application fixture");
                 var handler = new PackageHandler { Bytes = File.ReadAllBytes(package) };
                 var candidate = LauncherService.ParseCatalog(original).apps[0];
+                candidate.version = "0.8.0-beta";
                 using (var sha = SHA256.Create()) candidate.sha256 = BitConverter.ToString(sha.ComputeHash(handler.Bytes)).Replace("-", "").ToLowerInvariant();
                 using (var service = new LauncherService(Path.Combine(root, "install-profile"), handler)) {
                     service.Install(candidate, new QuietProgress(), CancellationToken.None).GetAwaiter().GetResult();
@@ -104,12 +105,20 @@ namespace TMApps {
                     candidate.downloadUrl = "https://github.com/DaddyTylerXO/TMApps/releases/download/tma-apps/fixture.zip";
                     service.Install(candidate, new QuietProgress(), CancellationToken.None).GetAwaiter().GetResult();
                     Check(handler.UsedAuth && handler.LastUrl == "https://api.github.com/repos/DaddyTylerXO/TMApps/releases/assets/123", "Private release uses authenticated asset API");
-                    candidate.downloadUrl = catalog.apps[0].downloadUrl;
+                    candidate.downloadUrl = "https://raw.githubusercontent.com/DaddyTylerXO/TMApps/a9625524f2717e948285eabfd19d958c556f2d4a/dist/TMA-Mail-0.8.0-beta-windows.zip";
                     service.Install(candidate, new QuietProgress(), CancellationToken.None).GetAwaiter().GetResult();
                     Check(handler.UsedAuth && handler.LastUrl.Contains("/contents/dist/") && handler.LastUrl.Contains("?ref="), "Private source artifact uses contents API");
                     service.SaveToken(""); Check(!service.HasToken && !File.Exists(Path.Combine(service.Root,"github-token.dat")), "Disconnect removes GitHub token");
                     Reject(() => service.SaveToken("invalid\r\ntoken"), "Reject malformed token");
                 }
+                string standalone = Path.Combine(root,"standalone"); Directory.CreateDirectory(standalone);
+                string exe = Path.Combine(standalone,"TMApps-Launcher.exe"); File.Copy(Path.Combine(args[0],"build","TMApps-Launcher.exe"),exe);
+                string report = Path.Combine(standalone,"verification.txt");
+                var start = new System.Diagnostics.ProcessStartInfo(exe, "--verify-package \"" + report + "\"") { WorkingDirectory = standalone, UseShellExecute = false, CreateNoWindow = true };
+                using (var process = System.Diagnostics.Process.Start(start)) { if (!process.WaitForExit(15000)) { process.Kill(); throw new Exception("Standalone startup timed out"); } Check(process.ExitCode == 0 && File.ReadAllText(report).StartsWith("OK:"), "EXE loads UI and catalog alone in empty folder"); }
+                Check(Directory.GetFiles(standalone).Length == 2, "Standalone startup needs no config, XAML, JSON, or DLL sidecars");
+                Check(new AppView { Info = catalog.apps[0] }.UpdatedLabel == "Oct 16, 2026", "App update date displayed from metadata");
+                using (var embedded = new LauncherService(Path.Combine(root,"embedded-profile"))) Check(embedded.LoadCatalog().apps.Count == 2, "Embedded catalog fallback works without source files");
                 var application = new Application();
                 string xaml = File.ReadAllText(Path.Combine(args[0], "src", "MainWindow.xaml"));
                 xaml = System.Text.RegularExpressions.Regex.Replace(xaml, " (Click|TextChanged)=\"[^\"]+\"", "");
@@ -124,6 +133,11 @@ namespace TMApps {
                 var encoder = new PngBitmapEncoder(); encoder.Frames.Add(BitmapFrame.Create(bitmap));
                 using (var output = File.Create(Path.Combine(args[0], "build", "launcher-preview.png"))) encoder.Save(output);
                 Check(cards.Items.Count == 2, "Render real WPF templates for both apps");
+                cards.ItemTemplate = (DataTemplate)window.Resources["AppCard"];
+                var gridFactory = new FrameworkElementFactory(typeof(System.Windows.Controls.Primitives.UniformGrid)); gridFactory.SetValue(System.Windows.Controls.Primitives.UniformGrid.ColumnsProperty, 2);
+                cards.ItemsPanel = new ItemsPanelTemplate(gridFactory);
+                content.Measure(new Size(900,600)); content.Arrange(new Rect(0,0,900,600)); content.UpdateLayout();
+                Check(cards.ActualWidth > 0 && cards.Items.Count == 2, "Grid template loads at minimum supported width");
                 Console.WriteLine(count + " checks passed. Preview: build/launcher-preview.png");
                 window.Close(); application.Shutdown(); return 0;
             } catch(Exception ex) { Console.Error.WriteLine(ex); return 1; }

diff --git a/src/Core.cs b/src/Core.cs
@@ -14,11 +14,20 @@ using System.Threading.Tasks;
 using System.Web.Script.Serialization;
 
 namespace TMApps {
+    public static class Bundled {
+        public static string Read(string name) {
+            using (var input = typeof(Bundled).Assembly.GetManifestResourceStream("TMApps." + name)) {
+                if (input == null) throw new InvalidDataException("Missing embedded launcher resource: " + name);
+                using (var reader = new StreamReader(input)) return reader.ReadToEnd();
+            }
+        }
+    }
     public class Catalog { public int schemaVersion { get; set; } public List<AppInfo> apps { get; set; } }
     public class AppInfo {
         public string id { get; set; } public string name { get; set; } public string category { get; set; }
         public string description { get; set; } public string version { get; set; } public string branch { get; set; }
         public string executable { get; set; } public string downloadUrl { get; set; } public string sha256 { get; set; }
+        public string updatedAt { get; set; }
         public bool Available { get { return !String.IsNullOrEmpty(downloadUrl); } }
     }
     public class Installed { public string version { get; set; } public string folder { get; set; } public string executable { get; set; } }
@@ -103,10 +112,10 @@ namespace TMApps {
             if (a.Length != b.Length) return a.Length == 1;
             return a.Length > 1 && String.CompareOrdinal(a[1], b[1]) > 0;
         }
-        public Catalog LoadCatalog(string bundled) {
+        public Catalog LoadCatalog(string bundled = null) {
             string cache = Path.Combine(Root, "catalog.json");
             if (File.Exists(cache)) { try { return ParseCatalog(File.ReadAllText(cache)); } catch { } }
-            return ParseCatalog(File.ReadAllText(bundled));
+            return ParseCatalog(bundled == null ? Bundled.Read("catalog.json") : File.ReadAllText(bundled));
         }
         public async Task<Catalog> Refresh(CancellationToken token) {
             using (var timeout = CancellationTokenSource.CreateLinkedTokenSource(token)) {

diff --git a/README.md b/README.md
@@ -1,12 +1,12 @@
 # TMApps Launcher
 
-A native Windows home for **TMA-Mail** and **TMA-Agent Office**. Install applications, open them, and apply updates from one dark, green-accented library. Inspired by the supplied reference, with original TMApps branding and visuals.
+A standalone Windows launcher for **TMA-Mail** and **TMA-Agent Office**. One EXE opens a compact application list with version numbers, update dates, and Install / Open / Update controls. Downloads, verification, and installation all happen inside the launcher.
 
 ![TMApps Launcher library](docs/launcher-preview.png)
 
 ## Download and run
 
-Download **TMApps-Launcher-1.0.0-windows-x64.zip** from [Windows downloads](https://github.com/DaddyTylerXO/TMApps/releases/tag/tma-apps), extract the entire folder, and run **TMApps Launcher.exe**. Keep its XAML, config, and catalog beside it. Requires Windows 10/11 x64 with .NET Framework 4.8. Builds are currently unsigned.
+Download [**TMApps-Launcher.exe**](https://github.com/DaddyTylerXO/TMApps/releases/download/tma-apps/TMApps-Launcher.exe) and open it. This is the entire launcher: no ZIP extraction, companion files, or developer tools are needed. The interface and initial app catalog are embedded in the EXE. Requires Windows 10/11 x64 with .NET Framework 4.8. Builds are currently unsigned.
 
 The release is created by the [Publish Windows launcher and app catalog workflow](https://github.com/DaddyTylerXO/TMApps/actions/workflows/publish.yml). Check that workflow for the first build's status if the release is not available yet.
 
@@ -15,7 +15,8 @@ The release is created by the [Publish Windows launcher and app catalog workflow
 - **Install app** downloads a Windows ZIP and verifies its SHA-256 checksum before extraction.
 - **Open app** starts the installed executable. The options menu also opens an older installed version while an update is available.
 - **Check for updates** fetches the current application catalog. **Update app** installs the newer build when you choose it.
-- Search, **Installed** / **Updates** filters, and grid/list views help navigate the library.
+- Search, **Installed** / **Updates** / **Not installed** filters, and grid/list views help navigate the library. List is the default view.
+- Every app shows its current published version and source update date. Publishing records the Mail package's last source commit date and Agent Office's source commit date; rebuilding the launcher does not invent a new app update date.
 - App options open its source, show its installation folder, or uninstall its managed binaries. Separate app accounts, mail, and workspace profiles are retained.
 - Settings can disable startup release checks. Updates download only when clicked.
 
@@ -25,8 +26,8 @@ Applications installed independently are not automatically adopted. Install them
 
 | Application | Source branch | Bundled fallback |
 | --- | --- | --- |
-| TMA-Mail | [TMA-Mail](https://github.com/DaddyTylerXO/TMApps/tree/TMA-Mail) | Existing 0.8.0-beta ZIP, pinned to its exact commit and checksum |
-| TMA-Agent Office | [AI-Agent-Dashboard](https://github.com/DaddyTylerXO/TMApps/tree/AI-Agent-Dashboard) | 0.2.0 metadata; **Coming soon** until a real package is published |
+| TMA-Mail | [TMA-Mail](https://github.com/DaddyTylerXO/TMApps/tree/TMA-Mail) | Published 0.8.2-beta package with SHA-256 verification |
+| TMA-Agent Office | [AI-Agent-Dashboard](https://github.com/DaddyTylerXO/TMApps/tree/AI-Agent-Dashboard) | Published 0.2.0 package with SHA-256 verification |
 
 The publishing workflow copies the newest checked-in Mail ZIP after verifying its checksum and builds Agent Office's unpacked Windows Electron app using its lockfile. Both ZIPs and checksums upload before `catalog.json`. The launcher reads that catalog from this repository's `tma-apps` GitHub Release. If publication fails, Mail can still install from the bundled fallback; Agent Office is never shown as installable without a package.
 
@@ -40,10 +41,10 @@ No Node.js or separate .NET SDK is needed for the launcher:
 .\build.ps1
 .\test.ps1
 .\package.ps1
-& '.\build\TMApps Launcher.exe'
+& '.\build\TMApps-Launcher.exe'
 ```
 
-The build uses the Windows .NET Framework C# compiler and WPF. Tests cover catalog validation, version ordering, archive boundaries, checksum failures, cancellation, install detection, atomic state writes, uninstall data retention, catalog recovery, and actual WPF template rendering. The preview is `build/launcher-preview.png`. Packaging creates the distributable ZIP and checksum under `dist/`.
+The build uses the Windows .NET Framework C# compiler and WPF. Tests cover catalog validation, version ordering, archive boundaries, checksum failures, cancellation, install detection, atomic state writes, uninstall data retention, catalog recovery, dates, and actual WPF template rendering. A separate process test copies only the EXE into an empty directory and verifies that the embedded interface and app catalog load without sidecar files. The preview is `build/launcher-preview.png`. Packaging creates `dist/TMApps-Launcher.exe` and an optional checksum sidecar; users only download the EXE.
 
 ## Publish updates
 
@@ -55,4 +56,4 @@ The catalog requires exactly the two registered app IDs, fixed executable names,
 
 Preferences and the cached catalog live in `%LOCALAPPDATA%\TMApps\Launcher`. Binaries live under `apps/<app-id>/<unique-install-folder>/`. Downloads extract into a new folder. The installation record switches atomically after verification, extraction, executable checks, cancellation checks, and checking the existing app is closed. Failed/cancelled updates preserve the previous record. ZIP traversal paths, links, excessive file counts, and oversized packages are rejected.
 
-Install and uninstall work for the current Windows user without administrator access. A launcher mutex prevents concurrent launcher instances. An interrupted process can leave an inactive staging folder; the next successful install cleans old folders. Quit application processes before retrying locked-file errors. Update the launcher itself by downloading the latest launcher ZIP; app updates are handled in the library.
+Install and uninstall work for the current Windows user without administrator access. A launcher mutex prevents concurrent launcher instances. An interrupted process can leave an inactive staging folder; the next successful install cleans old folders. Quit application processes before retrying locked-file errors. Update the launcher itself by replacing its EXE with the latest download; application installations and settings remain in your profile.

diff --git a/CHANGELOG.md b/CHANGELOG.md
@@ -1,5 +1,13 @@
 # Changelog
 
+## 1.1.0 — 2026-10-16
+
+- Single downloadable `TMApps-Launcher.exe` with embedded interface and initial app catalog; no extraction or companion files.
+- Compact application list by default, optional grid, and Not installed filter.
+- Version numbers and source update dates for each application.
+- Both published app packages available immediately from the embedded library.
+- Standalone startup test that loads the EXE from an otherwise empty folder.
+
 ## Public distribution — 2026-10-16
 
 - Verified installation and uninstall of both published app packages without GitHub authentication.
